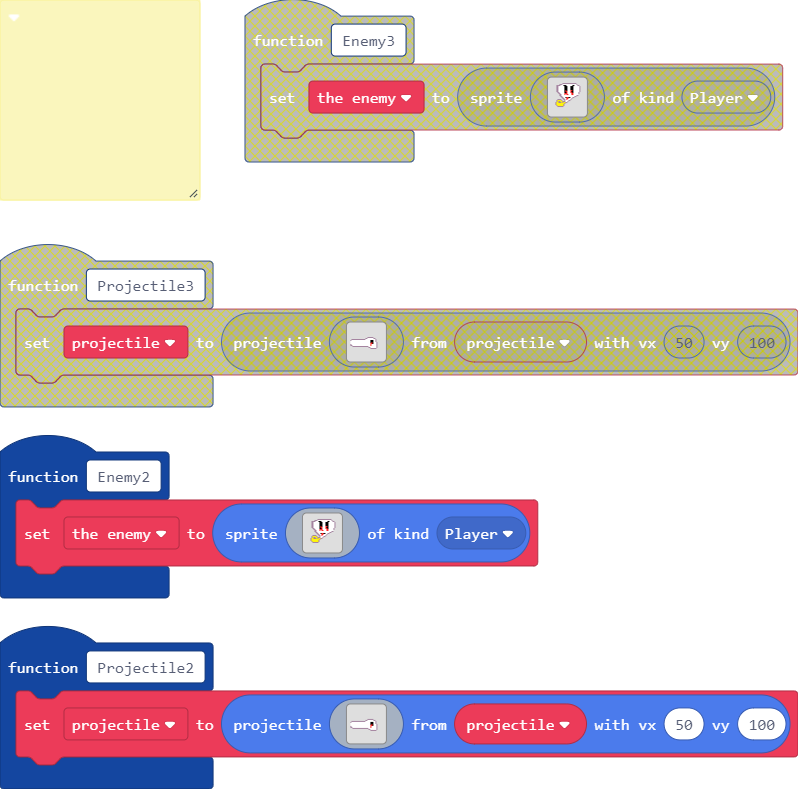
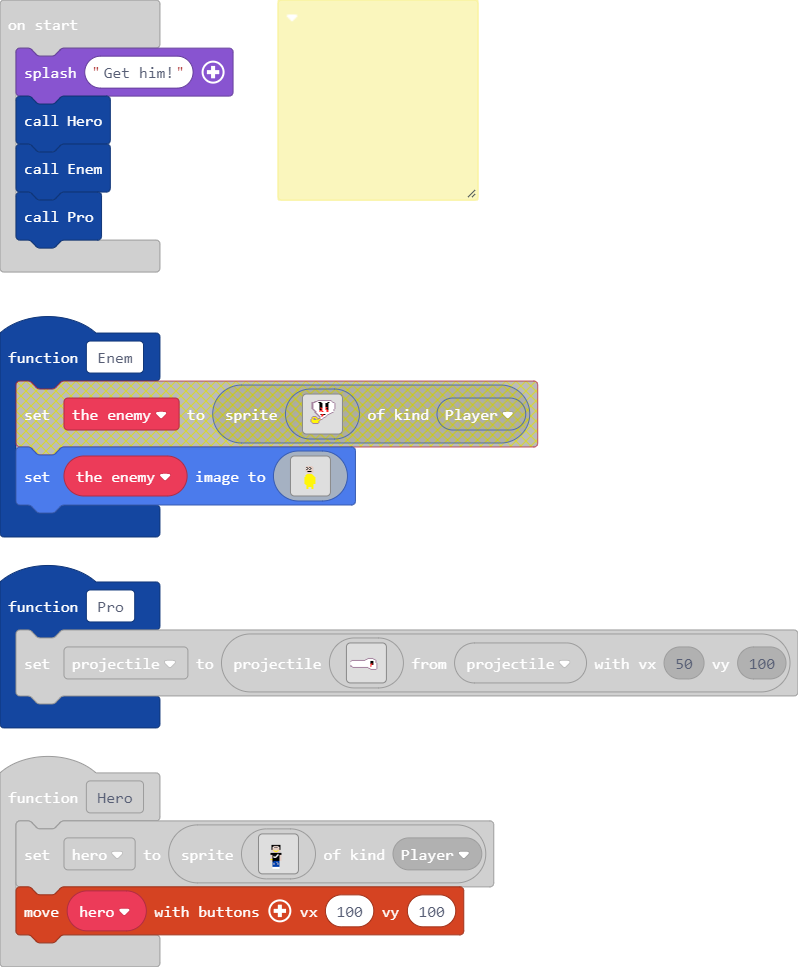
Update main.blocks, main.ts

diff --git a/main.ts b/main.ts
@@ -1,45 +1,43 @@
-let the_enemy: Sprite = null
-let projectile: Sprite = null
-let hero: Sprite = null
 /**
  */
-function Enemy () {
-    the_enemy = sprites.create(img`
-. . . . . . . . . . . . . . . . . . . . . . . . . . . . . . . . 
-. . . . . . . . . . . . . . . . . . . . . . . . . . . . . . . . 
-. . . . . . . . . . . b b b b b b b b b b b b b b . . . . . . . 
-. . . . . . . . b b b 1 1 1 1 1 1 1 1 1 1 1 1 1 1 b . . . . . . 
-. . . . . b b b b 1 1 1 f f f 1 1 1 1 1 1 f f 1 1 1 b b . . . . 
-. . . . . b b 1 1 1 1 1 1 f f f 1 1 1 f f f 1 1 1 1 1 1 b . . . 
-. . . . . b b 1 1 1 1 1 1 f f f 1 1 1 f f f 1 1 1 1 1 1 b . . . 
-. . . . . b b 1 1 1 1 1 1 f f f 1 1 1 f f f 1 1 1 1 1 1 b . . . 
-. . . . . b b 1 1 1 1 1 1 f f f 1 1 1 f f f 1 1 1 1 1 1 b . . . 
-. . . . . b b 1 1 1 1 1 1 f 2 f 1 1 1 2 2 f 1 1 1 1 1 1 b . . . 
-. . . . . b b 1 1 1 1 1 1 f 2 2 1 1 1 2 f f 1 1 1 1 1 1 b . . . 
-. . . . . . b b 1 1 1 1 1 f f 2 1 1 1 2 2 f 1 1 1 1 1 b . . . . 
-. . . . . . . b b 1 1 1 1 2 2 2 1 1 1 1 2 2 1 1 1 1 1 b . . . . 
-. . . . . . . . b b 1 1 1 2 1 2 2 1 1 1 2 2 1 1 1 1 1 . . . . . 
-. . . . . . . . b b 1 1 1 1 1 1 1 1 1 1 1 1 1 1 1 b b . . . . . 
-. . . . . . . . . b b 1 1 1 1 1 1 1 1 1 1 1 1 b b . . . . . . . 
-. . . . . . . . . . b b 1 1 f 2 2 f f 1 1 b b . . . . . . . . . 
-. . . . . . . . . . . b b 1 1 2 2 1 1 1 b . . . . . . . . . . . 
-. . . . . . b b b b . . b b 1 2 1 1 1 b . . . . . . . . . . . . 
-. . . . . b 5 5 5 5 b . . b 1 1 1 b b . . . . . . . . . . . . . 
-. . . . . b 5 b b 5 5 b b b 1 1 b . . . . . . . . . . . . . . . 
-. . . . b 5 5 b b b 5 b 5 5 b b . . . . . . . . . . . . . . . . 
-. . . . b 5 5 5 5 5 5 5 5 b . . . . . . . . . . . . . . . . . . 
-. . . . b 5 5 5 5 5 5 5 b . . . . . . . . . . . . . . . . . . . 
-. . . . . b 5 5 5 5 5 5 b . . . . . . . . . . . . . . . . . . . 
-. . . . . . b b b b b b . . . . . . . . . . . . . . . . . . . . 
+function Enem () {
+    let the_enemy: Sprite = null
+    the_enemy.setImage(img`
 . . . . . . . . . . . . . . . . . . . . . . . . . . . . . . . . 
 . . . . . . . . . . . . . . . . . . . . . . . . . . . . . . . . 
 . . . . . . . . . . . . . . . . . . . . . . . . . . . . . . . . 
 . . . . . . . . . . . . . . . . . . . . . . . . . . . . . . . . 
 . . . . . . . . . . . . . . . . . . . . . . . . . . . . . . . . 
 . . . . . . . . . . . . . . . . . . . . . . . . . . . . . . . . 
-`, SpriteKind.Player)
+. . . . . . . . . . . . d d d d d d . . . . . . . . . . . . . . 
+. . . . . . . . . . . d f d d f d d d . . . . . . . . . . . . . 
+. . . . . . . . . . . d 1 f d 1 f d d . . . . . . . . . . . . . 
+. . . . . . . . . . . d f d d f d d d . . . . . . . . . . . . . 
+. . . . . . . . . . . d d d d d d d d . . . . . . . . . . . . . 
+. . . . . . . . . . . d d f f f f d d . . . . . . . . . . . . . 
+. . . . . . . . . . . . d d d d d d d . . . . . . . . . . . . . 
+. . . . . . . . . . . . . d d d d . . . . . . . . . . . . . . . 
+. . . . . . . . . . . . 5 5 5 5 5 5 . . . . . . . . . . . . . . 
+. . . . . . . . . . . 5 5 5 5 5 5 5 5 . . . . . . . . . . . . . 
+. . . . . . . . . . . 5 5 5 5 5 5 5 5 5 . . . . . . . . . . . . 
+. . . . . . . . . . 5 5 5 5 5 5 5 5 5 5 5 . . . . . . . . . . . 
+. . . . . . . . . . 5 5 5 5 5 5 5 5 5 5 5 . . . . . . . . . . . 
+. . . . . . . . . . 5 5 5 5 5 5 5 5 5 5 5 . . . . . . . . . . . 
+. . . . . . . . . . 5 5 5 5 5 5 5 5 5 5 5 . . . . . . . . . . . 
+. . . . . . . . . . 5 5 5 5 5 5 5 5 5 5 5 . . . . . . . . . . . 
+. . . . . . . . . . 5 5 5 5 5 5 5 5 5 5 5 . . . . . . . . . . . 
+. . . . . . . . . . 5 5 5 5 5 5 5 5 5 5 5 . . . . . . . . . . . 
+. . . . . . . . . . . 5 5 5 5 5 5 5 5 . . . . . . . . . . . . . 
+. . . . . . . . . . . . 5 5 5 5 5 5 5 . . . . . . . . . . . . . 
+. . . . . . . . . . . . 5 5 5 5 5 5 5 . . . . . . . . . . . . . 
+. . . . . . . . . . . . 5 5 . . . 5 5 . . . . . . . . . . . . . 
+. . . . . . . . . . . . 5 5 . . . 5 5 . . . . . . . . . . . . . 
+. . . . . . . . . . . . . . . . . . . . . . . . . . . . . . . . 
+. . . . . . . . . . . . . . . . . . . . . . . . . . . . . . . . 
+. . . . . . . . . . . . . . . . . . . . . . . . . . . . . . . . 
+`)
 }
-function Projectile () {
+function Pro () {
     projectile = sprites.createProjectileFromSprite(img`
 . . . . . . . . . . . . . . . . . . . . . . . . . . . . . . . . 
 . . . . . . . . . . . . . . . . . . . . . . . . . . . . . . . . 
@@ -110,4 +108,11 @@ function Hero () {
 . . . . . . . . . . 1 1 1 1 1 1 1 . . . . . . . . . . . . . . . 
 . . . . . . . . . . . . . . . . . . . . . . . . . . . . . . . . 
 `, SpriteKind.Player)
+    controller.moveSprite(hero, 100, 100)
 }
+let hero: Sprite = null
+let projectile: Sprite = null
+game.splash("Get him!")
+Hero()
+Enem()
+Pro()
